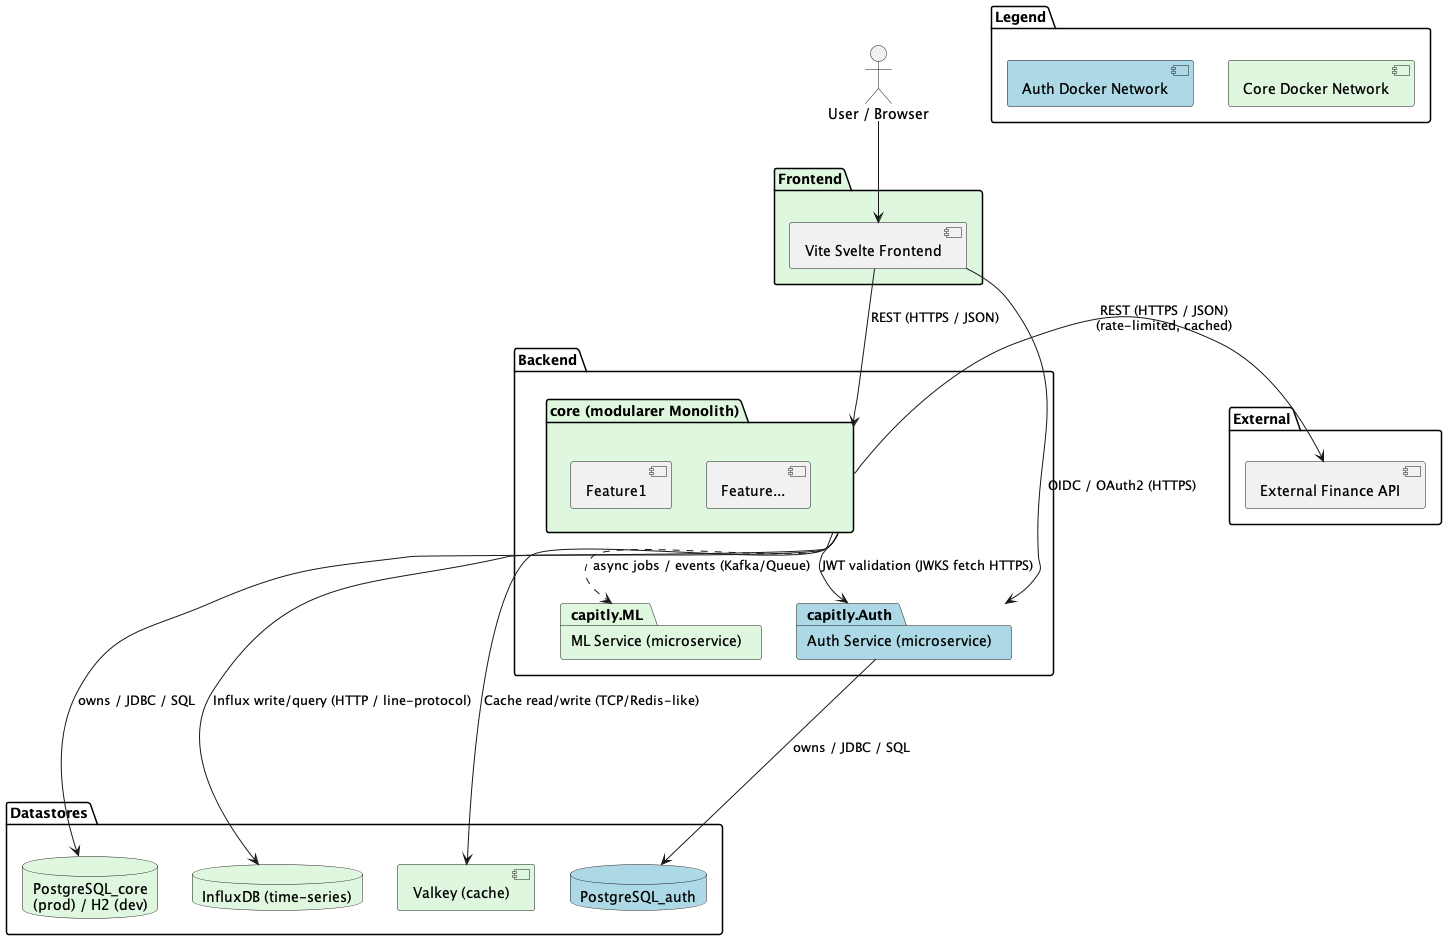
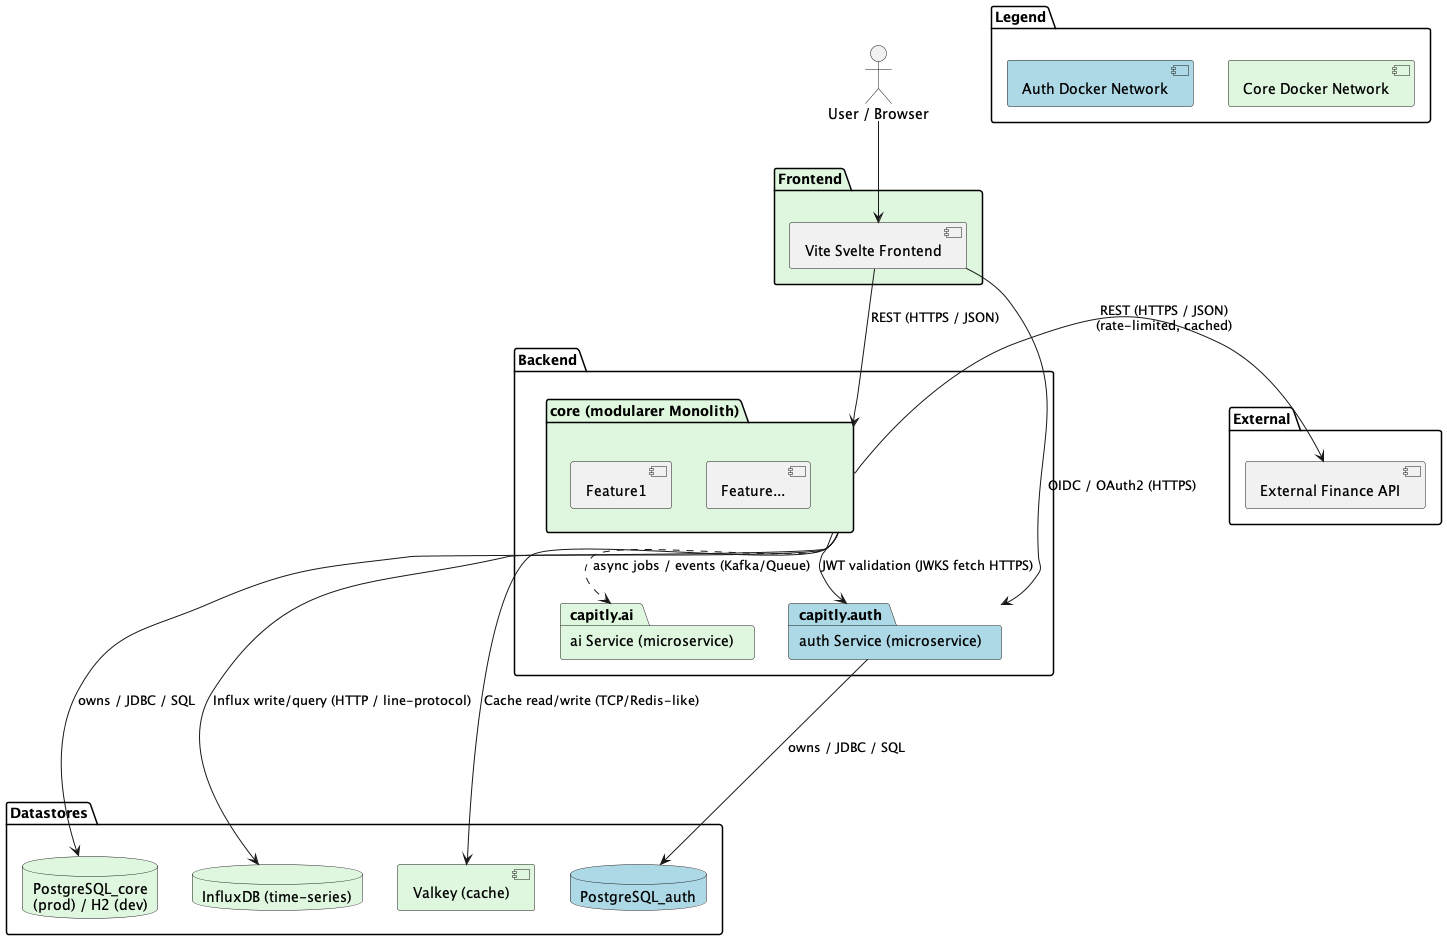
docs(#11): some renaming

Changed region(s): [[0.4043, 0.617, 0.7153, 0.7096], [0.5287, 0.7713, 0.622, 0.8021]]

diff --git a/docs/FullSystem/architecturFullSystem.md b/docs/FullSystem/architecturFullSystem.md
@@ -1,10 +1,10 @@
 # Gesamtsystem Architektur
-Es sei zu beachten, dass dies ein lernprojekt ist.
+Es sei zu beachten, dass dies ein Lernprojekt ist.
 
 Diese Datei ergänzt das Architekturdiagramm um Entscheidungshintergründe, Verantwortlichkeiten der Komponenten und Überlegungen.
 
 ## Kurzüberblick
-- Architektur‑Typ: Modularer Monolith (`core`) kombiniert mit gezielten Microservices (`Auth`, `ML`) und einem containerisierten Frontend.
+- Architektur‑Typ: Modularer Monolith (`core`) kombiniert mit gezielten Microservices (`auth`, `ai`) und einem containerisierten Frontend.
 - Warum: Der modulare Monolith erlaubt schnellere Iterationen zu Beginn im kleinen Team und einfache Integration der Business‑Logik; separate Microservices kapseln sicherheits- und skalenkritische Funktionalität (z. B. Auth), die unabhängig betrieben oder skaliert werden kann.
 - Hauptziele:
   - **Sicherheit:** Trennung von Auth‑Domain und sensiblen Credentials in einem eigenen Netzwerk und eigener Datenbank.
@@ -23,11 +23,11 @@ Diese Datei ergänzt das Architekturdiagramm um Entscheidungshintergründe, Vera
 	- Zweck: Kern‑Businesslogik, Domain‑Modelle, REST API, Aggregation von Daten aus DBs, Caching, Integrationspunkte zu ML und externen APIs.
 	- Entscheidungsunterpunkt: Java/Spring gewählt wegen bestehendern Java Kentnissen, stabilem Ökosystem und guter JVM‑Betriebsqualität. Bei starker ML‑Integration kann ein separates Service in Python sinnvoll sein (siehe ML‑Abschnitt).
 
-- **Auth Service (capitly.Auth) — Spring Authorization Server (Java)**
+- **Auth Service (capitly.auth) — Spring Authorization Server (Java)**
 	- Zweck: OIDC/OAuth2 Autorisierung, Benutzerverwaltung, Token‑Issuance (JWT, Refresh‑Tokens), sichere Trennung von Auth‑Daten.
 	- Entscheidung: Eigenes Microservice, um Schlüsselmaterial, Token‑Lifecycle und Sicherheitsrichtlinien isoliert zu betreiben; ermöglicht unabhängigere Updates und Härtungsmaßnahmen.
 
-- **ML Service (capitly.ML) — Inference / Modell‑Hosting**
+- **ML Service (capitly.ai) — Inference / Modell‑Hosting**
 	- Zweck: Modelle für Vorhersagen, Scoring, Anomalieerkennung oder Portfolio‑Auswertung bereitstellen, wir schauen mal was wird.
 	- Entscheidung (Unterpunkt): Implementierungsoptionen:
 		- **Python:** breites Ökosystem (pandas, scikit‑learn, TensorFlow, PyTorch, Prophet), einfacher Zugriff auf Community‑Modelle.
@@ -53,15 +53,15 @@ Diese Datei ergänzt das Architekturdiagramm um Entscheidungshintergründe, Vera
 
 ## Docker‑Netzwerke
 - Auth‑Netz (hellblau): enthält `Auth` + `PostgreSQL_auth` — isoliert Credentials und Token‑Lifecycle.
-- Core‑Netz (hellgrün): enthält `core`, `ML`, Core‑DB(s), InfluxDB, Valkey — erlaubt interne Kommunikation und Cache‑Zugriff.
+- Core‑Netz (hellgrün): enthält `core`, `AI`, Core‑DB(s), InfluxDB, Valkey — erlaubt interne Kommunikation und Cache‑Zugriff.
 
 ## Kommunikation (Pfeile)
 - `Frontend -> Core`: REST (HTTPS / JSON) — UI‑Interaktionen, Charts, CRUD
-- `Frontend -> Auth`: OIDC/OAuth2 (HTTPS) — Login / Token‑Flow (PKCE für SPA)
-- `Core -> Auth`: JWKS / JWT‑Validierung (HTTPS)
-- `Core -> ML`: async jobs (Kafka) oder HTTP Job API — Batch/Inference
+- `Frontend -> auth`: OIDC/OAuth2 (HTTPS) — Login / Token‑Flow (PKCE für SPA)
+- `Core -> auth`: JWKS / JWT‑Validierung (HTTPS)
+- `Core -> ai`: async jobs (Kafka) oder HTTP Job API — Batch/Inference
 - `Core -> External Finance API`: REST (HTTPS / JSON), Websockets — rate‑limited, cached
-- `Core -> PostgreSQL_core`: JDBC / SQL; `Auth -> PostgreSQL_auth`: JDBC / SQL
+- `Core -> PostgreSQL_core`: JDBC / SQL; `auth -> PostgreSQL_auth`: JDBC / SQL
 - `Core -> Valkey`: Cache read/write (Redis‑like)
 - `Core -> InfluxDB`: Time‑Series writes/queries (HTTP / line‑protocol)
 
@@ -99,13 +99,13 @@ Diese Datei ergänzt das Architekturdiagramm um Entscheidungshintergründe, Vera
 
 ## Sicherheit — Auth / JWT Flow (verbindlich, Spring‑basierter Standard)
 
-Verbindliche Architekturentscheidung: Der `Auth` Microservice ist der **Authorization Server** und stellt Access‑ und Refresh‑Tokens aus; das `core` Backend ist der **Resource Server** und prüft diese Tokens, bevor es Geschäftslogik ausführt. Der Authorization Server signiert die Tokens, der Resource Server validiert sie lokal via JWKS und vertraut dabei auf die vom Authorization Server veröffentlichte Signatur. Für die Implementierung verwenden wir standardisiert **Spring Security**.
+Verbindliche Architekturentscheidung: Der `auth` Microservice ist der **Authorization Server** und stellt Access‑ und Refresh‑Tokens aus; das `core` Backend ist der **Resource Server** und prüft diese Tokens, bevor es Geschäftslogik ausführt. Der Authorization Server signiert die Tokens, der Resource Server validiert sie lokal via JWKS und vertraut dabei auf die vom Authorization Server veröffentlichte Signatur. Für die Implementierung verwenden wir standardisiert **Spring Security**.
 
 Ziel: Klare, standardisierte Implementierung für Token‑Issuance, lokale Verifikation und sichere Handhabung von Refresh‑Tokens mit Spring‑Technologien.
 
 1. **Anmeldung (Frontend → Auth Service)**
 	- Das SPA startet zwingend den OIDC Authorization Code Flow mit PKCE (kein Implicit Flow, kein direkte Token‑Grant für SPAs).
-	- Der Nutzer authentifiziert sich (Passwort, MFA optional). Der `Auth` Service (Spring Authorization Server) signiert danach ein Access Token (JWT, RS256) und erstellt ein Refresh Token.
+	- Der Nutzer authentifiziert sich (Passwort, MFA optional). Der `auth` Service (Spring Authorization Server) signiert danach ein Access Token (JWT, RS256) und erstellt ein Refresh Token.
 
 		Was ist der OIDC PKCE‑Flow?
 
@@ -145,13 +145,13 @@ Ziel: Klare, standardisierte Implementierung für Token‑Issuance, lokale Verif
 
 6. **Refresh Flow**
 	- Wenn das JWT abläuft, nutzt das Frontend den Refresh Token, um beim `Auth` Service ein neues JWT zu holen.
-	- Der `Auth` Service prüft den Refresh Token und gibt ein neues Access Token aus; optional wird der Refresh Token rotiert.
+	- Der `auth` Service prüft den Refresh Token und gibt ein neues Access Token aus; optional wird der Refresh Token rotiert.
 
 7. **Key‑Rotation & JWKS‑Caching**
-	- Der `Auth` Service veröffentlicht neue öffentliche Schlüssel über JWKS, `core` cached sie für die lokale Signaturprüfung.
+	- Der `auth` Service veröffentlicht neue öffentliche Schlüssel über JWKS, `core` cached sie für die lokale Signaturprüfung.
 
 8. **Rollenmodell und Berechtigungen**
 
 - Das konkrete Rollenmodell muss noch entworfen werden; aktuell ist nur die Richtung klar: Rechte werden über Rollen und Scopes im JWT abgebildet.
 - Das `core` Backend prüft bei jeder Anfrage, ob die Rolle oder der Scope zum Endpunkt passt. Wenn nicht, wird der Zugriff abgelehnt.
-- Der `Auth` Service muss diese Rollen/Scopes beim Ausstellen des JWTs mitgeben, damit `core` sie lokal auswerten kann.
+- Der `auth` Service muss diese Rollen/Scopes beim Ausstellen des JWTs mitgeben, damit `core` sie lokal auswerten kann.
